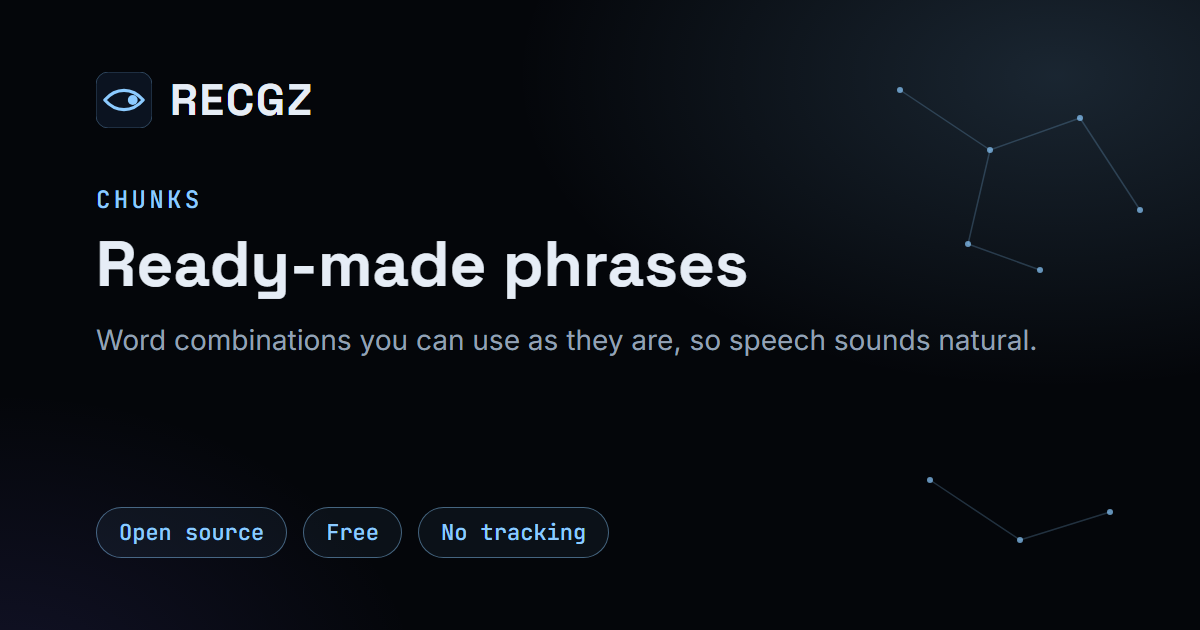
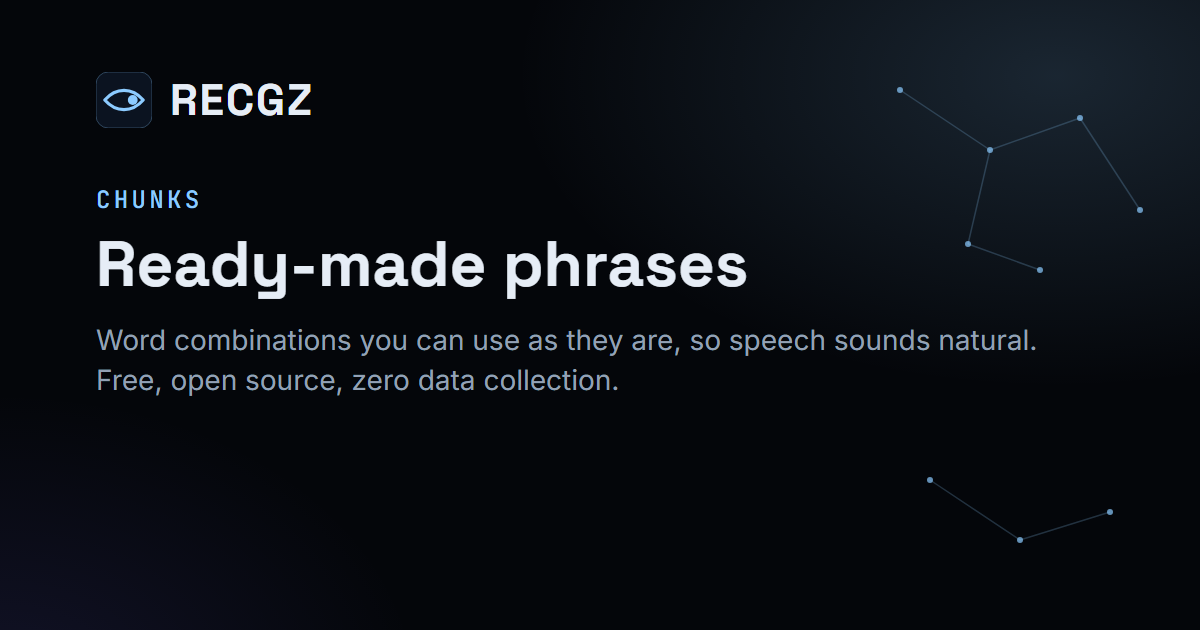
OG cards: drop badge chips, one plain tagline sentence; hideable speaking reminder; SW v172
- Preview cards: no DE/EN/RU/Open source/Free/No tracking pills; text ends with
  "Free, open source, zero data collection."
- "You haven't practised speaking…" banner: × to hide it, plus a
  "Hide speaking reminder" switch in Settings → Look & sound (hidePracticeReminder).

diff --git a/js/app.js b/js/app.js
@@ -835,9 +835,10 @@
     if (n) {
       var since = d.lastPractice || d.created;
       var days = Math.floor((GT.now() - since) / DAY);
-      if (days >= 2) {
+      if (days >= 2 && !S.settings.hidePracticeReminder) {
         out += notice('chat', (d.lastPractice ? 'It’s been <b>' + days + ' days</b> since you last practised speaking.' : 'You haven’t practised speaking with your words yet.') +
-          ' Open a topic and use <b>Practice now</b> to get a ready-made role-play prompt for your AI chat.');
+          ' Open a topic and use <b>Practice now</b> to get a ready-made role-play prompt for your AI chat.', 'practice-reminder')
+          .replace(/<\/div>$/, '<button class="side-practice-close notice-close" type="button" data-act="hide-practice-reminder" aria-label="Hide this reminder" title="Hide (turn back on in Settings)">' + icon('x') + '</button></div>');
       }
     }
     if (!S.storageOk()) out += notice('info', 'This browser is blocking local storage, so progress can’t be saved. Try another browser or host the app.', 'subtle');
@@ -2162,6 +2163,7 @@
       '</div>';
     h += '<h3 class="section-title">Look & sound</h3><div class="box">' +
       row('Hide sidebar Practice box', 'Hide the "Practice now" card in the sidebar.', sw('hideSidePractice', 'Hide sidebar Practice box')) +
+      row('Hide speaking reminder', 'Hide the “You haven’t practised speaking…” banner at the top of pages.', sw('hidePracticeReminder', 'Hide speaking reminder')) +
       row('' + langMeta().name + ' voice', '<span id="voiceInfo">' + (tts.ok ? 'Loading voices…' : 'Speech is not supported in this browser.') + '</span>',
         tts.ok ? '<select id="voiceSelect" class="voice-select" data-set="' + voiceKey() + '" aria-label="' + esc(langMeta().name) + ' voice"></select>' : '<span class="mono-muted">—</span>') +
       row('Speech rate', 'Applied to all pronunciation buttons.', '<div class="setting-ctl">' + sel('speechRate', [['0.75', 'Slow'], ['0.9', 'Normal'], ['1', 'Fast']], 'Speech rate') + '<button class="btn small" type="button" data-act="test-voice">Test</button></div>') +
@@ -2274,6 +2276,12 @@
         el.textContent = ui.bysExpanded ? 'Show Less ↑' : 'Read More ↓';
         /* Show Less: return to the top of the page (on phones the article is the first block), heading included. */
         if (!ui.bysExpanded) window.scrollTo({ top: 0, behavior: 'smooth' });
+        break;
+      }
+      case 'hide-practice-reminder': {
+        S.setSetting('hidePracticeReminder', true);
+        document.querySelectorAll('.notice.practice-reminder').forEach(function (n) { n.remove(); });
+        GT.toast('Hidden · turn it back on in Settings');
         break;
       }
       case 'hide-side-practice': {
@@ -2549,7 +2557,7 @@
         var curTab = curP[0] === 'item' && GT.byId[curP[1]] ? GT.byId[curP[1]].tab : (curP[0] || 'words');
         renderSidebar(curTab, curP);
       }
-      if (k === 'hideBasics') route({ keep: true });
+      if (k === 'hideBasics' || k === 'hidePracticeReminder') route({ keep: true });
       if (/^speechVoice/.test(k) || k === 'speechRate') {
         stopSpeak();
         if (/^speechVoice/.test(k)) pickVoice();

diff --git a/professional/for-everyone/index.html b/professional/for-everyone/index.html
@@ -5,21 +5,21 @@
 <meta name="viewport" content="width=device-width, initial-scale=1">
 <title>For everyone · RECGZ</title>
 <link rel="canonical" href="https://etrnl.world/recognize/professional/for-everyone/">
-<meta name="description" content="Office communication, meetings, clients, presentations and careers — the core every job shares. A different approach to learning words. Open source, free, no data collection.">
+<meta name="description" content="Office communication, meetings, clients, presentations and careers — the core every job shares. Free, open source, zero data collection.">
 <meta property="og:type" content="website">
 <meta property="og:site_name" content="RECGZ">
 <meta property="og:title" content="For everyone · RECGZ">
-<meta property="og:description" content="Office communication, meetings, clients, presentations and careers — the core every job shares. A different approach to learning words. Open source, free, no data collection.">
+<meta property="og:description" content="Office communication, meetings, clients, presentations and careers — the core every job shares. Free, open source, zero data collection.">
 <meta property="og:url" content="https://etrnl.world/recognize/professional/for-everyone/">
-<meta property="og:image" content="https://etrnl.world/recognize/icons/og/professional-for-everyone.png?v=bd06f0e9">
+<meta property="og:image" content="https://etrnl.world/recognize/icons/og/professional-for-everyone.png?v=baf30b17">
 <meta property="og:image:type" content="image/png">
 <meta property="og:image:width" content="1200">
 <meta property="og:image:height" content="630">
 <meta property="og:image:alt" content="For everyone · RECGZ">
 <meta name="twitter:card" content="summary_large_image">
 <meta name="twitter:title" content="For everyone · RECGZ">
-<meta name="twitter:description" content="Office communication, meetings, clients, presentations and careers — the core every job shares. A different approach to learning words. Open source, free, no data collection.">
-<meta name="twitter:image" content="https://etrnl.world/recognize/icons/og/professional-for-everyone.png?v=bd06f0e9">
+<meta name="twitter:description" content="Office communication, meetings, clients, presentations and careers — the core every job shares. Free, open source, zero data collection.">
+<meta name="twitter:image" content="https://etrnl.world/recognize/icons/og/professional-for-everyone.png?v=baf30b17">
 <meta name="twitter:image:alt" content="For everyone · RECGZ">
 <meta name="theme-color" content="#04060a">
 <link rel="icon" href="../../icons/icon.svg?v=4" type="image/svg+xml">

diff --git a/index.html b/index.html
@@ -4,23 +4,23 @@
 <meta charset="utf-8">
 <meta name="viewport" content="width=device-width, initial-scale=1, viewport-fit=cover">
 <title>RECGZ</title>
-<meta name="description" content="German, English and Russian through word roots, grammar and spaced repetition. A different approach to learning words. Open source, free, no data collection.">
+<meta name="description" content="A different approach to learning words — through roots, grammar and spaced repetition. Free, open source, zero data collection.">
 <link rel="canonical" href="https://etrnl.world/recognize/">
 <!-- Link previews (Telegram, Reddit, X, Discord, WhatsApp…). Generated by tools/og-cards.cjs. -->
 <meta property="og:type" content="website">
 <meta property="og:site_name" content="RECGZ">
 <meta property="og:title" content="RECGZ — multilingual vocabulary trainer">
-<meta property="og:description" content="German, English and Russian through word roots, grammar and spaced repetition. A different approach to learning words. Open source, free, no data collection.">
+<meta property="og:description" content="A different approach to learning words — through roots, grammar and spaced repetition. Free, open source, zero data collection.">
 <meta property="og:url" content="https://etrnl.world/recognize/">
-<meta property="og:image" content="https://etrnl.world/recognize/icons/og-image.png?v=ede8a9a9">
+<meta property="og:image" content="https://etrnl.world/recognize/icons/og-image.png?v=b365340e">
 <meta property="og:image:type" content="image/png">
 <meta property="og:image:width" content="1200">
 <meta property="og:image:height" content="630">
 <meta property="og:image:alt" content="RECGZ — multilingual vocabulary trainer">
 <meta name="twitter:card" content="summary_large_image">
 <meta name="twitter:title" content="RECGZ — multilingual vocabulary trainer">
-<meta name="twitter:description" content="German, English and Russian through word roots, grammar and spaced repetition. A different approach to learning words. Open source, free, no data collection.">
-<meta name="twitter:image" content="https://etrnl.world/recognize/icons/og-image.png?v=ede8a9a9">
+<meta name="twitter:description" content="A different approach to learning words — through roots, grammar and spaced repetition. Free, open source, zero data collection.">
+<meta name="twitter:image" content="https://etrnl.world/recognize/icons/og-image.png?v=b365340e">
 <meta name="twitter:image:alt" content="RECGZ — multilingual vocabulary trainer">
 <meta name="theme-color" content="#04060a">
 <meta name="apple-mobile-web-app-capable" content="yes">

diff --git a/professional/bureaucracy/index.html b/professional/bureaucracy/index.html
@@ -5,21 +5,21 @@
 <meta name="viewport" content="width=device-width, initial-scale=1">
 <title>Bureaucracy &amp; administration · RECGZ</title>
 <link rel="canonical" href="https://etrnl.world/recognize/professional/bureaucracy/">
-<meta name="description" content="Public offices, permits, taxes, payroll, social security and official letters. A different approach to learning words. Open source, free, no data collection.">
+<meta name="description" content="Public offices, permits, taxes, payroll, social security and official letters. Free, open source, zero data collection.">
 <meta property="og:type" content="website">
 <meta property="og:site_name" content="RECGZ">
 <meta property="og:title" content="Bureaucracy &amp; administration · RECGZ">
-<meta property="og:description" content="Public offices, permits, taxes, payroll, social security and official letters. A different approach to learning words. Open source, free, no data collection.">
+<meta property="og:description" content="Public offices, permits, taxes, payroll, social security and official letters. Free, open source, zero data collection.">
 <meta property="og:url" content="https://etrnl.world/recognize/professional/bureaucracy/">
-<meta property="og:image" content="https://etrnl.world/recognize/icons/og/professional-bureaucracy.png?v=0662d90f">
+<meta property="og:image" content="https://etrnl.world/recognize/icons/og/professional-bureaucracy.png?v=adc1408f">
 <meta property="og:image:type" content="image/png">
 <meta property="og:image:width" content="1200">
 <meta property="og:image:height" content="630">
 <meta property="og:image:alt" content="Bureaucracy &amp; administration · RECGZ">
 <meta name="twitter:card" content="summary_large_image">
 <meta name="twitter:title" content="Bureaucracy &amp; administration · RECGZ">
-<meta name="twitter:description" content="Public offices, permits, taxes, payroll, social security and official letters. A different approach to learning words. Open source, free, no data collection.">
-<meta name="twitter:image" content="https://etrnl.world/recognize/icons/og/professional-bureaucracy.png?v=0662d90f">
+<meta name="twitter:description" content="Public offices, permits, taxes, payroll, social security and official letters. Free, open source, zero data collection.">
+<meta name="twitter:image" content="https://etrnl.world/recognize/icons/og/professional-bureaucracy.png?v=adc1408f">
 <meta name="twitter:image:alt" content="Bureaucracy &amp; administration · RECGZ">
 <meta name="theme-color" content="#04060a">
 <link rel="icon" href="../../icons/icon.svg?v=4" type="image/svg+xml">

diff --git a/professional/operations/index.html b/professional/operations/index.html
@@ -5,21 +5,21 @@
 <meta name="viewport" content="width=device-width, initial-scale=1">
 <title>Healthcare, logistics &amp; trades · RECGZ</title>
 <link rel="canonical" href="https://etrnl.world/recognize/professional/operations/">
-<meta name="description" content="Healthcare, supply chain, engineering, construction and technical trades. A different approach to learning words. Open source, free, no data collection.">
+<meta name="description" content="Healthcare, supply chain, engineering, construction and technical trades. Free, open source, zero data collection.">
 <meta property="og:type" content="website">
 <meta property="og:site_name" content="RECGZ">
 <meta property="og:title" content="Healthcare, logistics &amp; trades · RECGZ">
-<meta property="og:description" content="Healthcare, supply chain, engineering, construction and technical trades. A different approach to learning words. Open source, free, no data collection.">
+<meta property="og:description" content="Healthcare, supply chain, engineering, construction and technical trades. Free, open source, zero data collection.">
 <meta property="og:url" content="https://etrnl.world/recognize/professional/operations/">
-<meta property="og:image" content="https://etrnl.world/recognize/icons/og/professional-operations.png?v=41f6ae70">
+<meta property="og:image" content="https://etrnl.world/recognize/icons/og/professional-operations.png?v=cba4e779">
 <meta property="og:image:type" content="image/png">
 <meta property="og:image:width" content="1200">
 <meta property="og:image:height" content="630">
 <meta property="og:image:alt" content="Healthcare, logistics &amp; trades · RECGZ">
 <meta name="twitter:card" content="summary_large_image">
 <meta name="twitter:title" content="Healthcare, logistics &amp; trades · RECGZ">
-<meta name="twitter:description" content="Healthcare, supply chain, engineering, construction and technical trades. A different approach to learning words. Open source, free, no data collection.">
-<meta name="twitter:image" content="https://etrnl.world/recognize/icons/og/professional-operations.png?v=41f6ae70">
+<meta name="twitter:description" content="Healthcare, supply chain, engineering, construction and technical trades. Free, open source, zero data collection.">
+<meta name="twitter:image" content="https://etrnl.world/recognize/icons/og/professional-operations.png?v=cba4e779">
 <meta name="twitter:image:alt" content="Healthcare, logistics &amp; trades · RECGZ">
 <meta name="theme-color" content="#04060a">
 <link rel="icon" href="../../icons/icon.svg?v=4" type="image/svg+xml">

diff --git a/expressions/index.html b/expressions/index.html
@@ -5,21 +5,21 @@
 <meta name="viewport" content="width=device-width, initial-scale=1">
 <title>Idioms, slang &amp; everyday speech · RECGZ</title>
 <link rel="canonical" href="https://etrnl.world/recognize/expressions/">
-<meta name="description" content="How people actually talk — idioms, slang and set phrases with real examples. A different approach to learning words. Open source, free, no data collection.">
+<meta name="description" content="How people actually talk — idioms, slang and set phrases with real examples. Free, open source, zero data collection.">
 <meta property="og:type" content="website">
 <meta property="og:site_name" content="RECGZ">
 <meta property="og:title" content="Idioms, slang &amp; everyday speech · RECGZ">
-<meta property="og:description" content="How people actually talk — idioms, slang and set phrases with real examples. A different approach to learning words. Open source, free, no data collection.">
+<meta property="og:description" content="How people actually talk — idioms, slang and set phrases with real examples. Free, open source, zero data collection.">
 <meta property="og:url" content="https://etrnl.world/recognize/expressions/">
-<meta property="og:image" content="https://etrnl.world/recognize/icons/og/expressions.png?v=81c6aa34">
+<meta property="og:image" content="https://etrnl.world/recognize/icons/og/expressions.png?v=a5f0ad26">
 <meta property="og:image:type" content="image/png">
 <meta property="og:image:width" content="1200">
 <meta property="og:image:height" content="630">
 <meta property="og:image:alt" content="Idioms, slang &amp; everyday speech · RECGZ">
 <meta name="twitter:card" content="summary_large_image">
 <meta name="twitter:title" content="Idioms, slang &amp; everyday speech · RECGZ">
-<meta name="twitter:description" content="How people actually talk — idioms, slang and set phrases with real examples. A different approach to learning words. Open source, free, no data collection.">
-<meta name="twitter:image" content="https://etrnl.world/recognize/icons/og/expressions.png?v=81c6aa34">
+<meta name="twitter:description" content="How people actually talk — idioms, slang and set phrases with real examples. Free, open source, zero data collection.">
+<meta name="twitter:image" content="https://etrnl.world/recognize/icons/og/expressions.png?v=a5f0ad26">
 <meta name="twitter:image:alt" content="Idioms, slang &amp; everyday speech · RECGZ">
 <meta name="theme-color" content="#04060a">
 <link rel="icon" href="../icons/icon.svg?v=4" type="image/svg+xml">

diff --git a/professional/it/index.html b/professional/it/index.html
@@ -5,21 +5,21 @@
 <meta name="viewport" content="width=device-width, initial-scale=1">
 <title>IT professions · RECGZ</title>
 <link rel="canonical" href="https://etrnl.world/recognize/professional/it/">
-<meta name="description" content="Software engineering, cloud, cybersecurity, UX, AI and data, agile product work. A different approach to learning words. Open source, free, no data collection.">
+<meta name="description" content="Software engineering, cloud, cybersecurity, UX, AI and data, agile product work. Free, open source, zero data collection.">
 <meta property="og:type" content="website">
 <meta property="og:site_name" content="RECGZ">
 <meta property="og:title" content="IT professions · RECGZ">
-<meta property="og:description" content="Software engineering, cloud, cybersecurity, UX, AI and data, agile product work. A different approach to learning words. Open source, free, no data collection.">
+<meta property="og:description" content="Software engineering, cloud, cybersecurity, UX, AI and data, agile product work. Free, open source, zero data collection.">
 <meta property="og:url" content="https://etrnl.world/recognize/professional/it/">
-<meta property="og:image" content="https://etrnl.world/recognize/icons/og/professional-it.png?v=0b0e7213">
+<meta property="og:image" content="https://etrnl.world/recognize/icons/og/professional-it.png?v=0ef38089">
 <meta property="og:image:type" content="image/png">
 <meta property="og:image:width" content="1200">
 <meta property="og:image:height" content="630">
 <meta property="og:image:alt" content="IT professions · RECGZ">
 <meta name="twitter:card" content="summary_large_image">
 <meta name="twitter:title" content="IT professions · RECGZ">
-<meta name="twitter:description" content="Software engineering, cloud, cybersecurity, UX, AI and data, agile product work. A different approach to learning words. Open source, free, no data collection.">
-<meta name="twitter:image" content="https://etrnl.world/recognize/icons/og/professional-it.png?v=0b0e7213">
+<meta name="twitter:description" content="Software engineering, cloud, cybersecurity, UX, AI and data, agile product work. Free, open source, zero data collection.">
+<meta name="twitter:image" content="https://etrnl.world/recognize/icons/og/professional-it.png?v=0ef38089">
 <meta name="twitter:image:alt" content="IT professions · RECGZ">
 <meta name="theme-color" content="#04060a">
 <link rel="icon" href="../../icons/icon.svg?v=4" type="image/svg+xml">

diff --git a/ru/index.html b/ru/index.html
@@ -5,21 +5,21 @@
 <meta name="viewport" content="width=device-width, initial-scale=1">
 <title>Learn Russian · RECGZ</title>
 <link rel="canonical" href="https://etrnl.world/recognize/ru/">
-<meta name="description" content="Words, roots and grammar from A2 to C1, with stress marks and English and German translations. A different approach to learning words. Open source, free, no data collection.">
+<meta name="description" content="Words, roots and grammar from A2 to C1, with stress marks and English and German translations. Free, open source, zero data collection.">
 <meta property="og:type" content="website">
 <meta property="og:site_name" content="RECGZ">
 <meta property="og:title" content="Learn Russian · RECGZ">
-<meta property="og:description" content="Words, roots and grammar from A2 to C1, with stress marks and English and German translations. A different approach to learning words. Open source, free, no data collection.">
+<meta property="og:description" content="Words, roots and grammar from A2 to C1, with stress marks and English and German translations. Free, open source, zero data collection.">
 <meta property="og:url" content="https://etrnl.world/recognize/ru/">
-<meta property="og:image" content="https://etrnl.world/recognize/icons/og/ru.png?v=31ee7ae1">
+<meta property="og:image" content="https://etrnl.world/recognize/icons/og/ru.png?v=b4c27e2d">
 <meta property="og:image:type" content="image/png">
 <meta property="og:image:width" content="1200">
 <meta property="og:image:height" content="630">
 <meta property="og:image:alt" content="Learn Russian · RECGZ">
 <meta name="twitter:card" content="summary_large_image">
 <meta name="twitter:title" content="Learn Russian · RECGZ">
-<meta name="twitter:description" content="Words, roots and grammar from A2 to C1, with stress marks and English and German translations. A different approach to learning words. Open source, free, no data collection.">
-<meta name="twitter:image" content="https://etrnl.world/recognize/icons/og/ru.png?v=31ee7ae1">
+<meta name="twitter:description" content="Words, roots and grammar from A2 to C1, with stress marks and English and German translations. Free, open source, zero data collection.">
+<meta name="twitter:image" content="https://etrnl.world/recognize/icons/og/ru.png?v=b4c27e2d">
 <meta name="twitter:image:alt" content="Learn Russian · RECGZ">
 <meta name="theme-color" content="#04060a">
 <link rel="icon" href="../icons/icon.svg?v=4" type="image/svg+xml">

diff --git a/roots/index.html b/roots/index.html
@@ -5,21 +5,21 @@
 <meta name="viewport" content="width=device-width, initial-scale=1">
 <title>One root, many words · RECGZ</title>
 <link rel="canonical" href="https://etrnl.world/recognize/roots/">
-<meta name="description" content="Learn a base verb once, then see how every prefix and particle changes its meaning. A different approach to learning words. Open source, free, no data collection.">
+<meta name="description" content="Learn a base verb once, then see how every prefix and particle changes its meaning. Free, open source, zero data collection.">
 <meta property="og:type" content="website">
 <meta property="og:site_name" content="RECGZ">
 <meta property="og:title" content="One root, many words · RECGZ">
-<meta property="og:description" content="Learn a base verb once, then see how every prefix and particle changes its meaning. A different approach to learning words. Open source, free, no data collection.">
+<meta property="og:description" content="Learn a base verb once, then see how every prefix and particle changes its meaning. Free, open source, zero data collection.">
 <meta property="og:url" content="https://etrnl.world/recognize/roots/">
-<meta property="og:image" content="https://etrnl.world/recognize/icons/og/roots.png?v=0f7170d6">
+<meta property="og:image" content="https://etrnl.world/recognize/icons/og/roots.png?v=3204e200">
 <meta property="og:image:type" content="image/png">
 <meta property="og:image:width" content="1200">
 <meta property="og:image:height" content="630">
 <meta property="og:image:alt" content="One root, many words · RECGZ">
 <meta name="twitter:card" content="summary_large_image">
 <meta name="twitter:title" content="One root, many words · RECGZ">
-<meta name="twitter:description" content="Learn a base verb once, then see how every prefix and particle changes its meaning. A different approach to learning words. Open source, free, no data collection.">
-<meta name="twitter:image" content="https://etrnl.world/recognize/icons/og/roots.png?v=0f7170d6">
+<meta name="twitter:description" content="Learn a base verb once, then see how every prefix and particle changes its meaning. Free, open source, zero data collection.">
+<meta name="twitter:image" content="https://etrnl.world/recognize/icons/og/roots.png?v=3204e200">
 <meta name="twitter:image:alt" content="One root, many words · RECGZ">
 <meta name="theme-color" content="#04060a">
 <link rel="icon" href="../icons/icon.svg?v=4" type="image/svg+xml">

diff --git a/words/index.html b/words/index.html
@@ -5,21 +5,21 @@
 <meta name="viewport" content="width=device-width, initial-scale=1">
 <title>Words by topic · RECGZ</title>
 <link rel="canonical" href="https://etrnl.world/recognize/words/">
-<meta name="description" content="Everyday vocabulary grouped by theme, with examples, translations and spaced repetition. A different approach to learning words. Open source, free, no data collection.">
+<meta name="description" content="Everyday vocabulary grouped by theme, with examples, translations and spaced repetition. Free, open source, zero data collection.">
 <meta property="og:type" content="website">
 <meta property="og:site_name" content="RECGZ">
 <meta property="og:title" content="Words by topic · RECGZ">
-<meta property="og:description" content="Everyday vocabulary grouped by theme, with examples, translations and spaced repetition. A different approach to learning words. Open source, free, no data collection.">
+<meta property="og:description" content="Everyday vocabulary grouped by theme, with examples, translations and spaced repetition. Free, open source, zero data collection.">
 <meta property="og:url" content="https://etrnl.world/recognize/words/">
-<meta property="og:image" content="https://etrnl.world/recognize/icons/og/words.png?v=532a5a14">
+<meta property="og:image" content="https://etrnl.world/recognize/icons/og/words.png?v=a936c4a0">
 <meta property="og:image:type" content="image/png">
 <meta property="og:image:width" content="1200">
 <meta property="og:image:height" content="630">
 <meta property="og:image:alt" content="Words by topic · RECGZ">
 <meta name="twitter:card" content="summary_large_image">
 <meta name="twitter:title" content="Words by topic · RECGZ">
-<meta name="twitter:description" content="Everyday vocabulary grouped by theme, with examples, translations and spaced repetition. A different approach to learning words. Open source, free, no data collection.">
-<meta name="twitter:image" content="https://etrnl.world/recognize/icons/og/words.png?v=532a5a14">
+<meta name="twitter:description" content="Everyday vocabulary grouped by theme, with examples, translations and spaced repetition. Free, open source, zero data collection.">
+<meta name="twitter:image" content="https://etrnl.world/recognize/icons/og/words.png?v=a936c4a0">
 <meta name="twitter:image:alt" content="Words by topic · RECGZ">
 <meta name="theme-color" content="#04060a">
 <link rel="icon" href="../icons/icon.svg?v=4" type="image/svg+xml">

diff --git a/professional/index.html b/professional/index.html
@@ -5,21 +5,21 @@
 <meta name="viewport" content="width=device-width, initial-scale=1">
 <title>Language for work · RECGZ</title>
 <link rel="canonical" href="https://etrnl.world/recognize/professional/">
-<meta name="description" content="Meetings, emails, clients and careers — then your own field, up to C1–C2. A different approach to learning words. Open source, free, no data collection.">
+<meta name="description" content="Meetings, emails, clients and careers — then your own field, up to C1–C2. Free, open source, zero data collection.">
 <meta property="og:type" content="website">
 <meta property="og:site_name" content="RECGZ">
 <meta property="og:title" content="Language for work · RECGZ">
-<meta property="og:description" content="Meetings, emails, clients and careers — then your own field, up to C1–C2. A different approach to learning words. Open source, free, no data collection.">
+<meta property="og:description" content="Meetings, emails, clients and careers — then your own field, up to C1–C2. Free, open source, zero data collection.">
 <meta property="og:url" content="https://etrnl.world/recognize/professional/">
-<meta property="og:image" content="https://etrnl.world/recognize/icons/og/professional.png?v=5d38fdbd">
+<meta property="og:image" content="https://etrnl.world/recognize/icons/og/professional.png?v=0e51383e">
 <meta property="og:image:type" content="image/png">
 <meta property="og:image:width" content="1200">
 <meta property="og:image:height" content="630">
 <meta property="og:image:alt" content="Language for work · RECGZ">
 <meta name="twitter:card" content="summary_large_image">
 <meta name="twitter:title" content="Language for work · RECGZ">
-<meta name="twitter:description" content="Meetings, emails, clients and careers — then your own field, up to C1–C2. A different approach to learning words. Open source, free, no data collection.">
-<meta name="twitter:image" content="https://etrnl.world/recognize/icons/og/professional.png?v=5d38fdbd">
+<meta name="twitter:description" content="Meetings, emails, clients and careers — then your own field, up to C1–C2. Free, open source, zero data collection.">
+<meta name="twitter:image" content="https://etrnl.world/recognize/icons/og/professional.png?v=0e51383e">
 <meta name="twitter:image:alt" content="Language for work · RECGZ">
 <meta name="theme-color" content="#04060a">
 <link rel="icon" href="../icons/icon.svg?v=4" type="image/svg+xml">

diff --git a/professional/service/index.html b/professional/service/index.html
@@ -5,21 +5,21 @@
 <meta name="viewport" content="width=device-width, initial-scale=1">
 <title>Service, hospitality &amp; retail · RECGZ</title>
 <link rel="canonical" href="https://etrnl.world/recognize/professional/service/">
-<meta name="description" content="Hotels, gastronomy, retail sales and customer support. A different approach to learning words. Open source, free, no data collection.">
+<meta name="description" content="Hotels, gastronomy, retail sales and customer support. Free, open source, zero data collection.">
 <meta property="og:type" content="website">
 <meta property="og:site_name" content="RECGZ">
 <meta property="og:title" content="Service, hospitality &amp; retail · RECGZ">
-<meta property="og:description" content="Hotels, gastronomy, retail sales and customer support. A different approach to learning words. Open source, free, no data collection.">
+<meta property="og:description" content="Hotels, gastronomy, retail sales and customer support. Free, open source, zero data collection.">
 <meta property="og:url" content="https://etrnl.world/recognize/professional/service/">
-<meta property="og:image" content="https://etrnl.world/recognize/icons/og/professional-service.png?v=4587087a">
+<meta property="og:image" content="https://etrnl.world/recognize/icons/og/professional-service.png?v=7e83d9ae">
 <meta property="og:image:type" content="image/png">
 <meta property="og:image:width" content="1200">
 <meta property="og:image:height" content="630">
 <meta property="og:image:alt" content="Service, hospitality &amp; retail · RECGZ">
 <meta name="twitter:card" content="summary_large_image">
 <meta name="twitter:title" content="Service, hospitality &amp; retail · RECGZ">
-<meta name="twitter:description" content="Hotels, gastronomy, retail sales and customer support. A different approach to learning words. Open source, free, no data collection.">
-<meta name="twitter:image" content="https://etrnl.world/recognize/icons/og/professional-service.png?v=4587087a">
+<meta name="twitter:description" content="Hotels, gastronomy, retail sales and customer support. Free, open source, zero data collection.">
+<meta name="twitter:image" content="https://etrnl.world/recognize/icons/og/professional-service.png?v=7e83d9ae">
 <meta name="twitter:image:alt" content="Service, hospitality &amp; retail · RECGZ">
 <meta name="theme-color" content="#04060a">
 <link rel="icon" href="../../icons/icon.svg?v=4" type="image/svg+xml">
